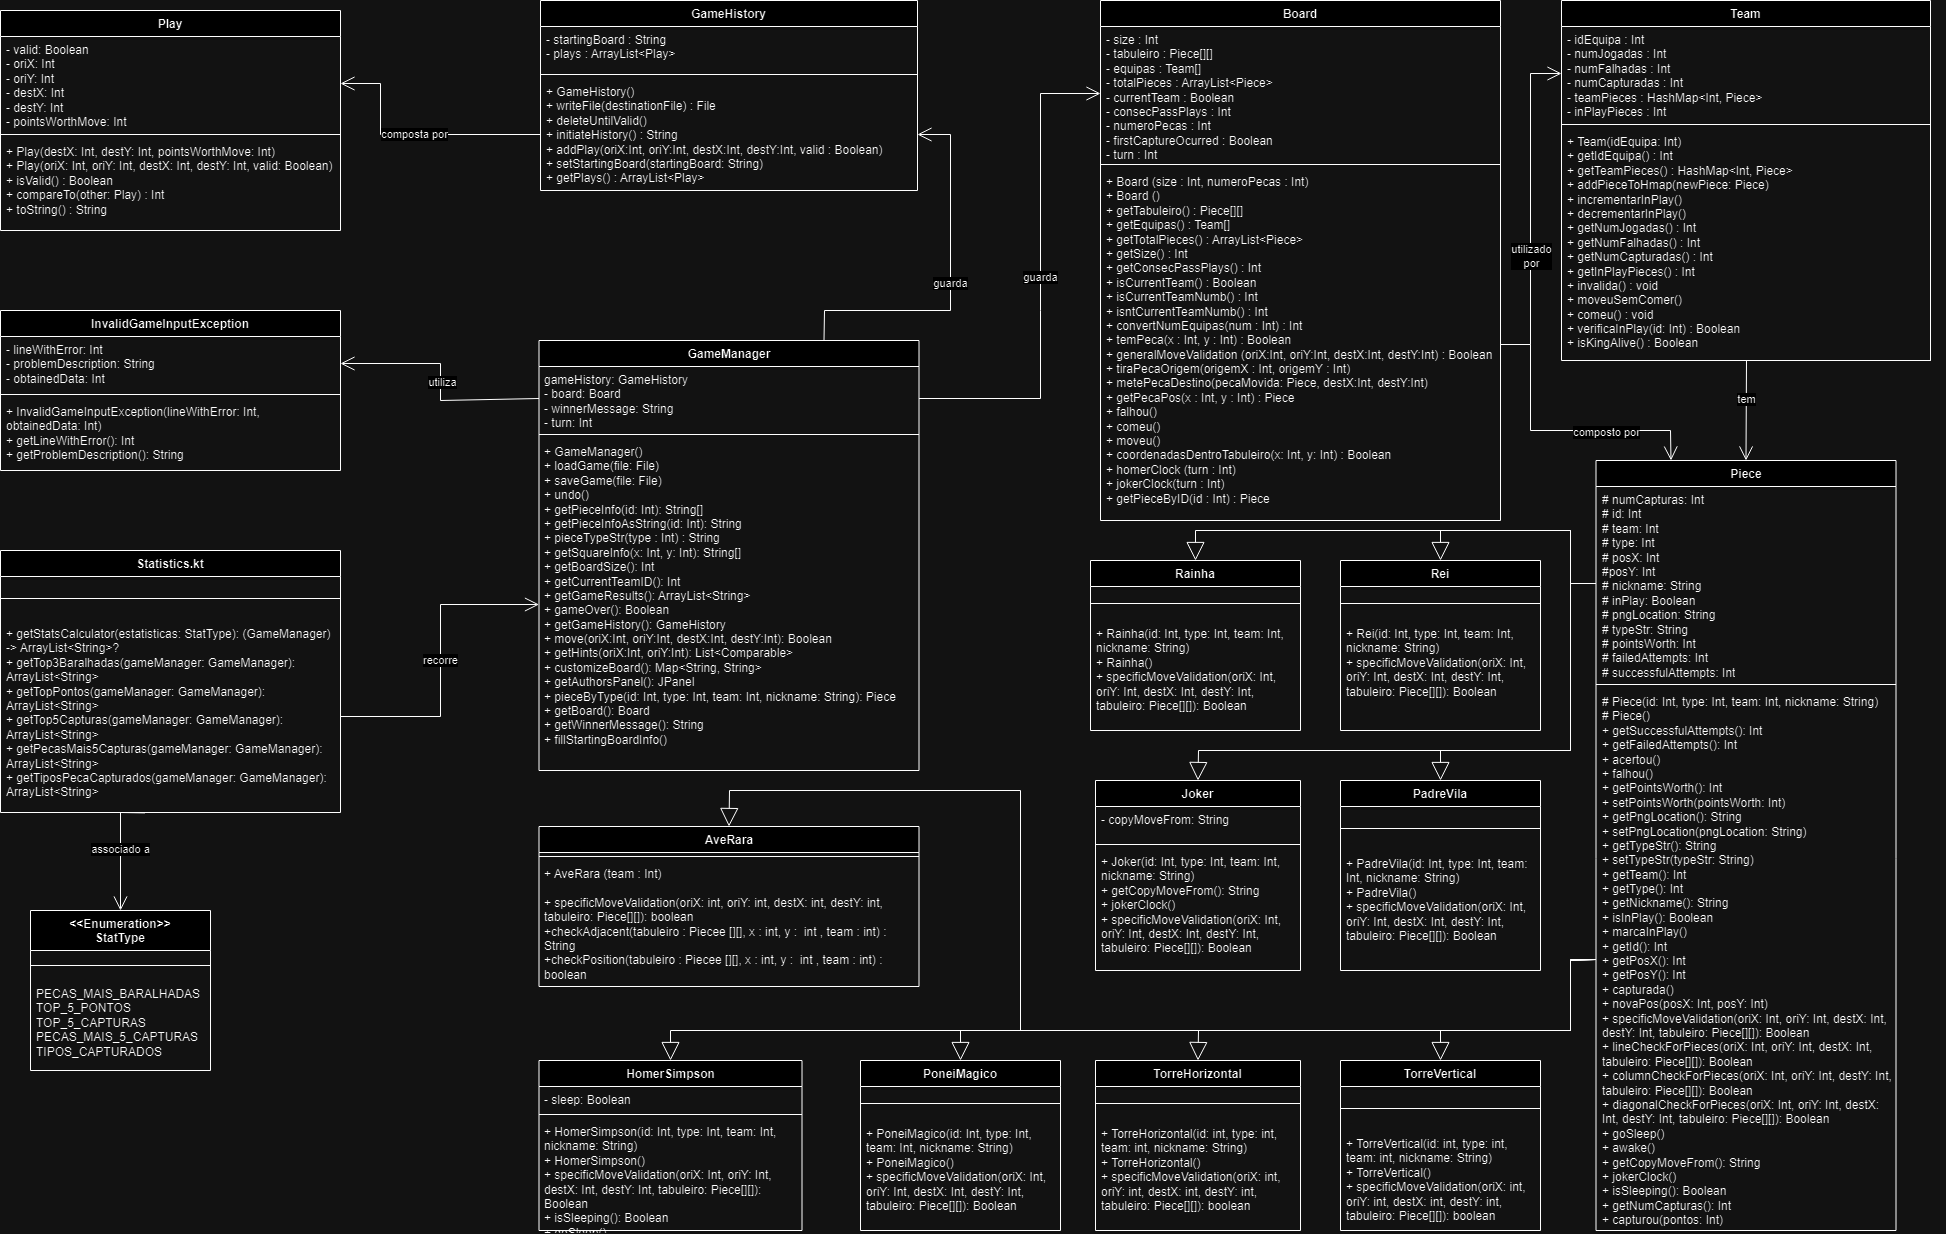
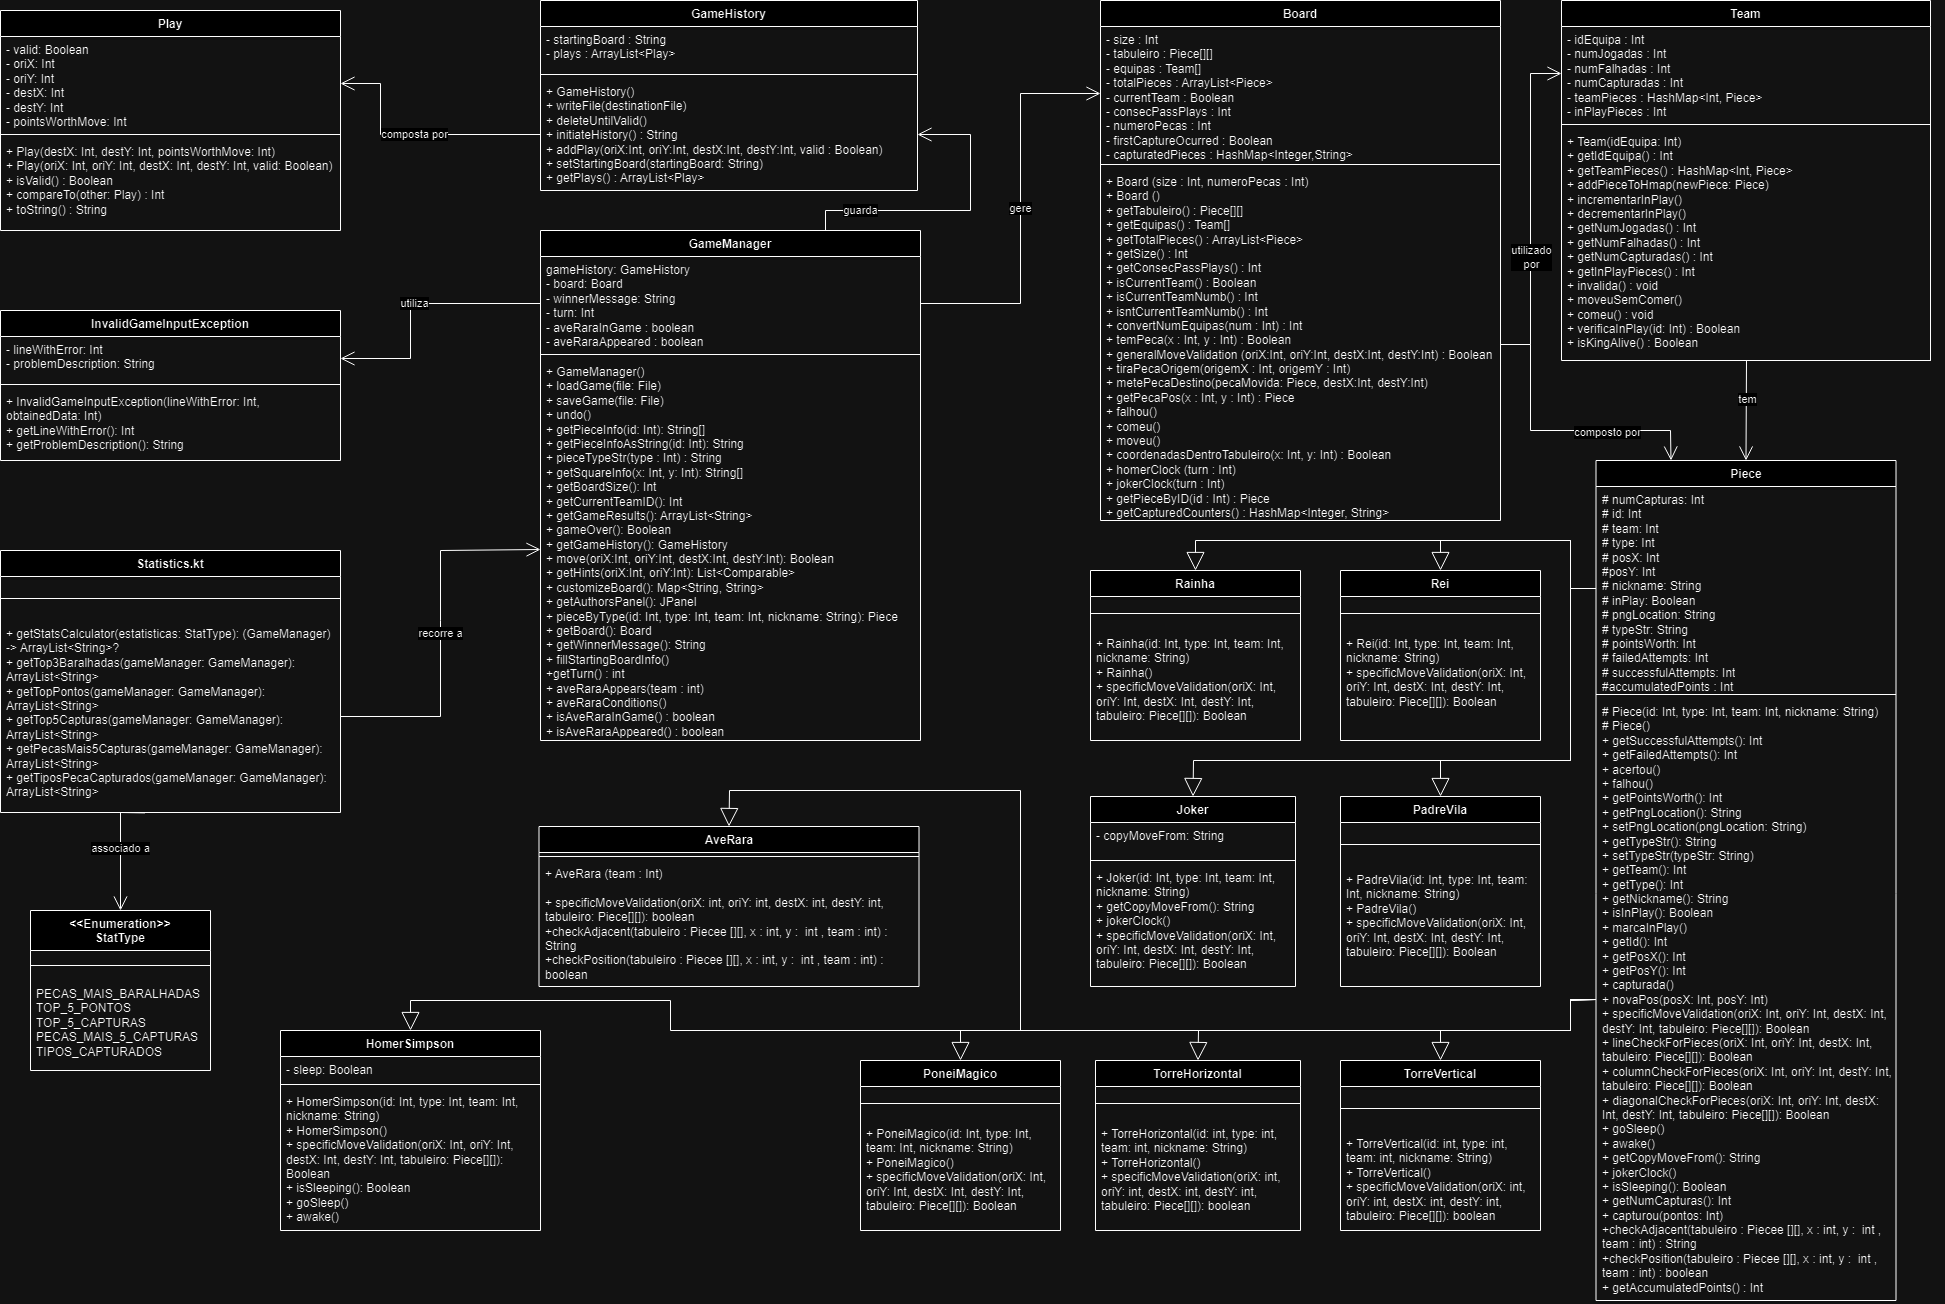
It's Done...

diff --git a/src/pt/ulusofona/lp2/deisichess/GameManager.java b/src/pt/ulusofona/lp2/deisichess/GameManager.java
@@ -34,7 +34,7 @@ public class GameManager {
             boardSize = Integer.parseInt((scanner.nextLine()));                     //size do tabuleiro
             numPecas = Integer.parseInt(scanner.nextLine());                        //numero de pecas presentes no tabuleiro
 
-            this.board = new Board(boardSize, numPecas);
+            this.board = new Board(boardSize);
             gameHistory = new GameHistory();
             int currentLine = 2;
             //LEITURA DADOS DAS PEÇAS

diff --git a/src/pt/ulusofona/lp2/deisichess/Board.java b/src/pt/ulusofona/lp2/deisichess/Board.java
@@ -14,7 +14,7 @@ public class Board {
     private boolean firstCaptureOcurred;
     private HashMap<Integer, String> capturedPieces;
 
-    public Board(int size, int numeroPecas) {
+    public Board(int size) {
         this.size = size;
         this.consecPassPlays = -1000;
         this.tabuleiro = new Piece[size][size];

diff --git a/src/pt/ulusofona/lp2/deisichess/InvalidGameInputException.java b/src/pt/ulusofona/lp2/deisichess/InvalidGameInputException.java
@@ -4,7 +4,7 @@ public class InvalidGameInputException extends Exception {
 
     private int lineWithError;
     private String problemDescription;
-    private int obtainedData;
+
 
     public InvalidGameInputException(int lineWithError, int obtainedData) {
         this.lineWithError = lineWithError;

diff --git a/README.md b/README.md
@@ -67,7 +67,9 @@ Para atingir esse objetivo, utilizamos as seguintes imagens:
   <img src="src/images/ScreenshotTabuleiro.png" alt="Diagrama UML">
 </p>
 
-# UML Diagram
+#### Vídeo explicativo: https://youtu.be/1xSWG4G5OXo
+
+# Diagrama UML
 
 <p align="center">
   <img src="diagrama.png" alt="Diagrama UML">
@@ -106,7 +108,7 @@ peça presente no arquivo/tabuleiro e armazenar suas informações de forma aces
 
 ---------------------
 
-## Chess Pieces and Movements
+## Chess Pieces e Moves
 
 Na segunda parte do trabalho, focamos nos diferentes tipos de peças e suas características específicas, destacando-se o
 tipo de movimento de cada uma. Abordamos a questão visando repetir o mínimo de código possível. Para isso, dividimos a
@@ -124,7 +126,7 @@ se movimentarem que coincidem com os movimentos de outras peças.
 
 ---------------------
 
-## SaveGame and Undo
+## SaveGame e Undo
 
 Desenvolvemos os métodos `saveGame()` e `undo()` tentando, mais uma vez, reaproveitar código e outros métodos já
 implementados.
@@ -141,7 +143,7 @@ final, o tabuleiro e as estatísticas tenham os valores pretendidos.
 
 ---------------------
 
-# Rare Bird - Creative Chess Piece
+# Ave Rara - Peça Criativa
 
 A peça criativa desenvolvida faz alusão às águias presentes nos filmes de Tolkien que aparecem sempre no último momento
 para salvar os bons da fita. No caso, o tabuleiro só pode ter apenas uma peça deste tipo em jogo. A `Ave Rara`
@@ -161,6 +163,7 @@ O movimento das peças deste tipo assemalha-se ao da `Rainha` sem que seja limit
 tamanho do tabuleiro podendo movimentar-se na horizontal, vertical e diagonal.
 
 ---------------------------------------------
+
 
 
 Trabalho desenvolvido por [Miguel Melo](https://github.com/miguel-melo-a21905215) (21905215)
